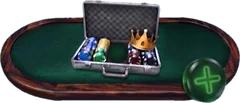
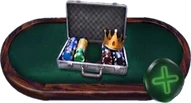
New-club art 20% narrower (the plus kept round) - same width as the new-table art
Claude-Session: https://claude.ai/code/session_018fN23u3FeeA71Hw2MtF9TB

diff --git a/static/index.html b/static/index.html
@@ -2248,7 +2248,7 @@ html.theme-light.theme-sand .card.new-game-card{background:linear-gradient(135de
 html.theme-light.theme-sand .new-game-card .ngc-title{color:#3a2614;} html.theme-light.theme-sand .new-game-card .ngc-sub{color:#6b4a2a;}
 html.theme-light.theme-blue .card.new-game-card{background:linear-gradient(135deg,#eaf5fb,#d3eaf6)!important;border:2px dashed #2f7fa8!important;box-shadow:none!important;}
 html.theme-light.theme-blue .new-game-card .ngc-title{color:#0e2633;} html.theme-light.theme-blue .new-game-card .ngc-sub{color:#3d6a80;}
-.ncc-art{flex-shrink:0;width:96px;height:auto;-webkit-user-drag:none;}
+.ncc-art{flex-shrink:0;width:77px;height:auto;-webkit-user-drag:none;}
 </style>
 </head>
 <body>
@@ -8663,7 +8663,7 @@ function renderHome(){
   }).join("");
   const newCommunityCard = `
     <div class="card" data-new-community style="border-style:dashed;border-color:var(--gold);background:rgba(251,191,36,.06);">
-      <img class="ncc-art" src="/static/new-club.webp" width="96" height="41" alt="" draggable="false">
+      <img class="ncc-art" src="/static/new-club.webp" width="77" height="41" alt="" draggable="false">
       <div class="flex1">
         <div class="name serif">מועדון חדש</div>
         <div class="meta">${myCommunities.length ? "הקישו ליצירת מועדון חדש" : "עדיין אין לך מועדונים משויכים - הקישו כדי ליצור אחד"}</div>
